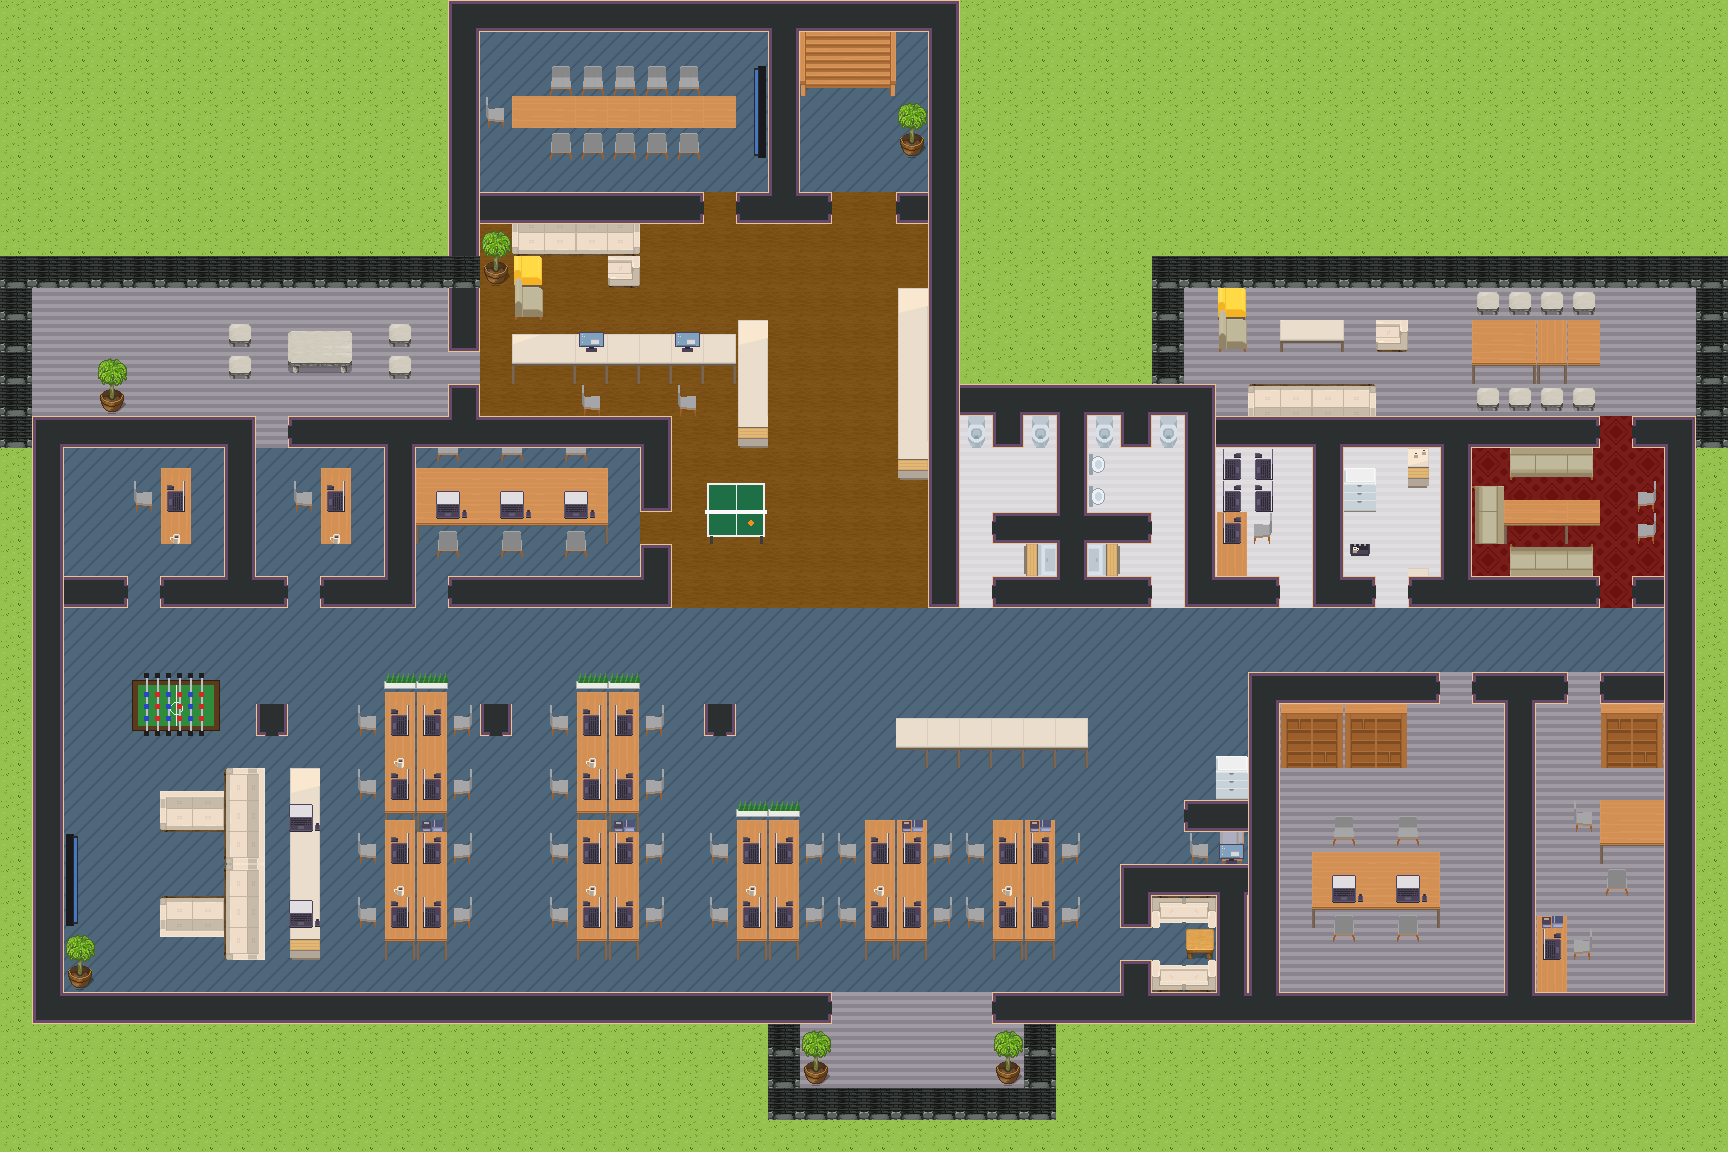
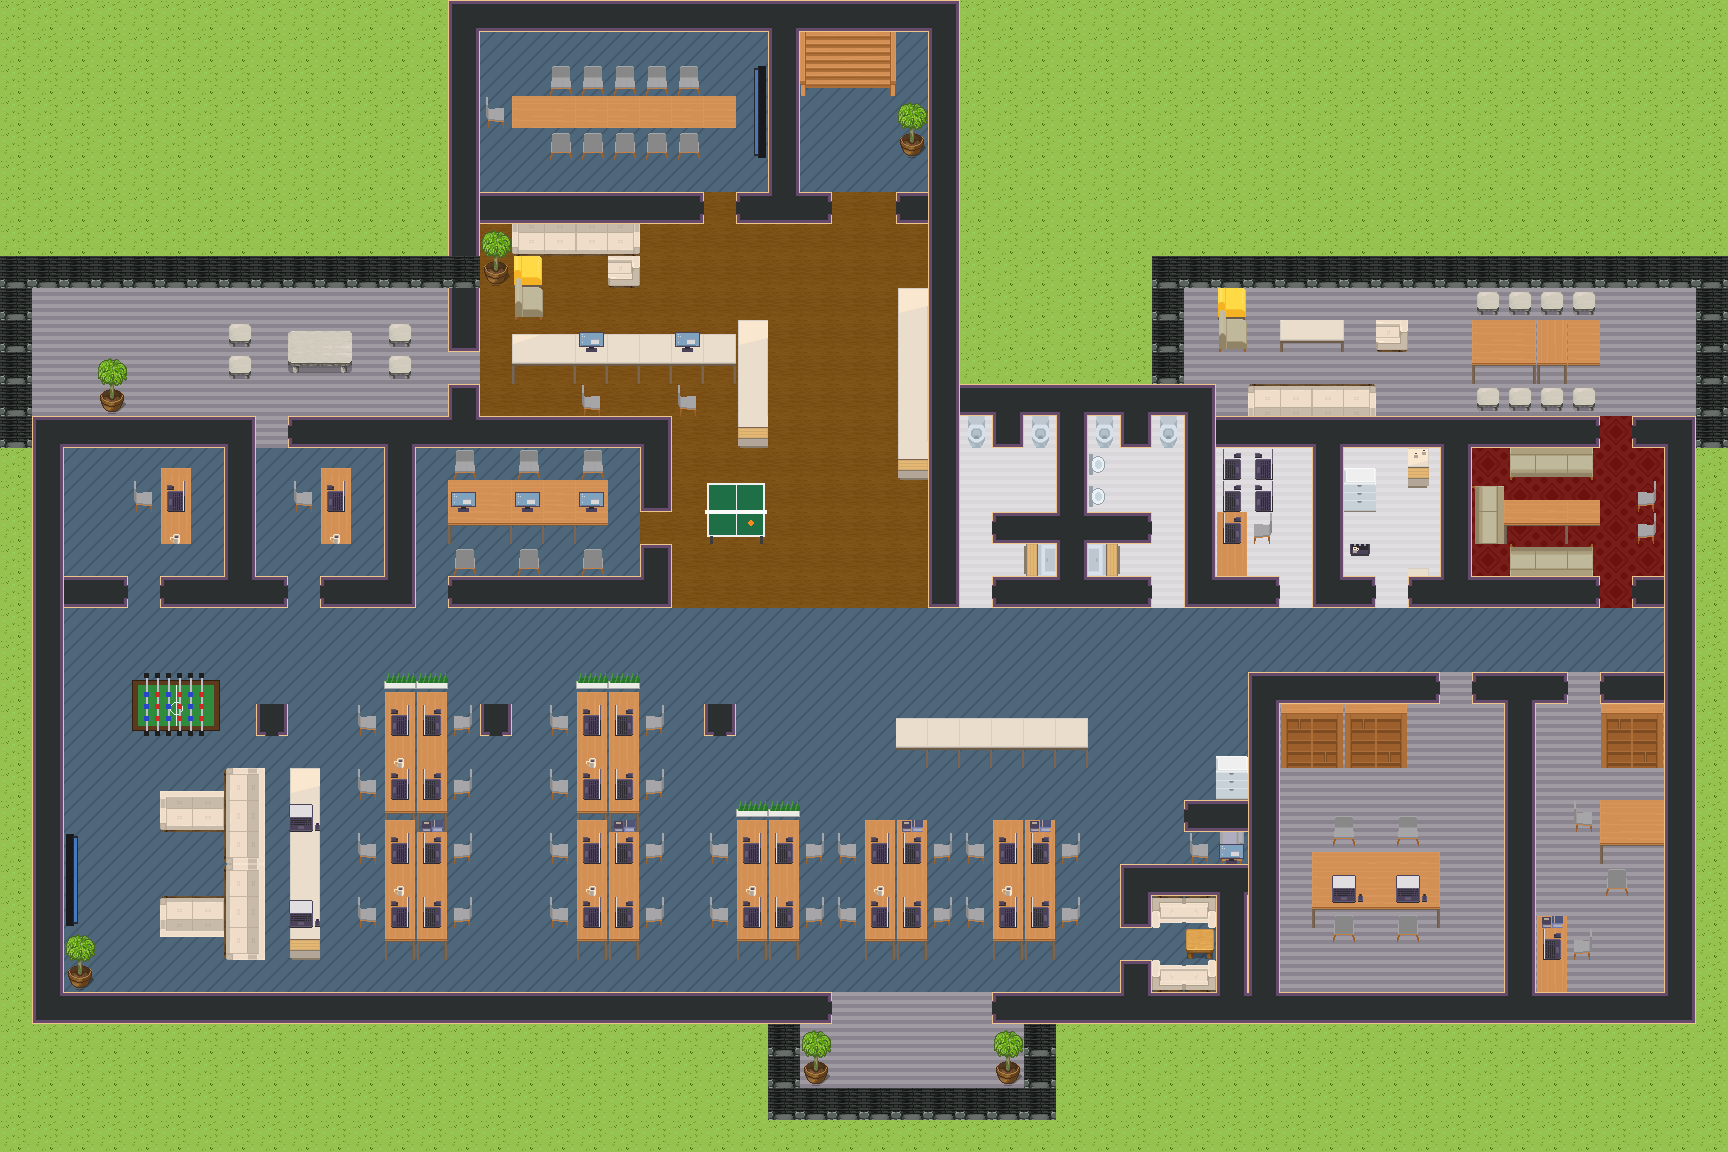
Meeting room: rebuild table with one-tile chairs so nothing sits in the wall

Changed region(s): [[0.2188, 0.375, 0.375, 0.5]]

diff --git a/build.py b/build.py
@@ -216,7 +216,11 @@ for x in range(46, 50):
 # office A / B
 stamp(10, 3, 2, 3, 4, 14); stamp(10, 3, 2, 3, 9, 14)
 # meeting room
-stamp(12, 10, 6, 4, 13, 14)
+for x in range(14, 19):                                                 # meeting room: table, one-tile chairs above and below
+    c = 0 if x == 14 else 3 if x == 18 else 1
+    obj('furniture1', x, 15, 1567 + c); obj('furniture1', x, 16, 1577 + c)
+for x in (14, 16, 18):
+    put('furniture2', x, 14, 1492); put('furniture2', x, 17, 1493); put('furniture2', x, 15, 110)
 # WCs: sink at the door, toilets behind the partition wall; men's (right) with 2 urinals on the left wall
 for bx in (30, 34):
     obj('furniture1', bx, 13, 284); obj('furniture1', bx + 2, 13, 284)
